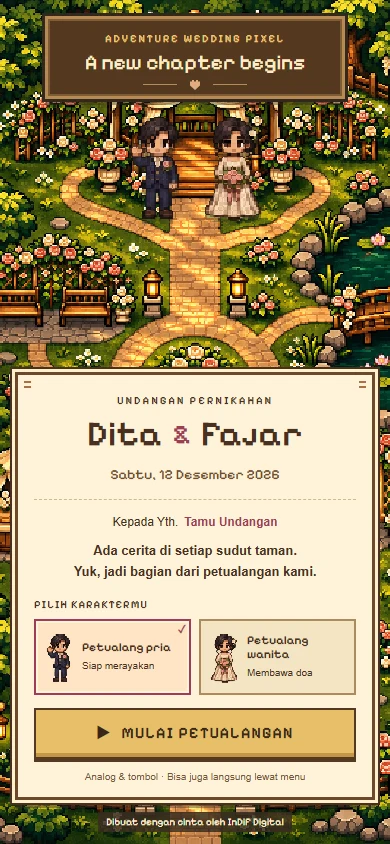
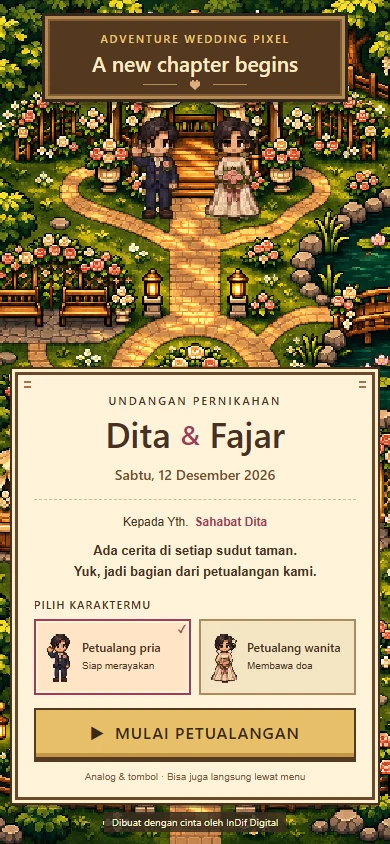
fix: improve invitation readability, gift sign and catalog mockup

diff --git a/components/templates/adventure-wedding-pixel/pixel.module.css b/components/templates/adventure-wedding-pixel/pixel.module.css
@@ -1,17 +1,9 @@
-@font-face {
-  font-family: "Adventure Pixel";
-  src: url("/media/adventure-wedding-pixel/fonts/pixelify-sans.ttf") format("truetype");
-  font-style: normal;
-  font-weight: 400 700;
-  font-display: swap;
-}
-
 .theme {
   --wood: #483021;
   --paper: #fff3d9;
   --rose: #9d3e57;
   --gold: #e6bf67;
-  --pixel: "Adventure Pixel", "Courier New", monospace;
+  --font-ui: "Segoe UI", Arial, Helvetica, sans-serif;
   position: relative;
   min-height: 100svh;
   background: #243d2d;
@@ -40,7 +32,7 @@
 .cover { z-index: 2; isolation: isolate; }
 .cover::before { content: ""; position: absolute; inset: 0; min-height: 760px; background: linear-gradient(180deg, #182d2910, transparent 35%, #182d2930); pointer-events: none; z-index: -1; }
 .coverTop { width: 100%; flex: 1 0 225px; display: flex; flex-direction: column; align-items: center; justify-content: flex-start; }
-.woodenPlaque { position: relative; width: min(300px, 92%); text-align: center; color: #ffedc6; background: #533820; border: 3px solid #b88a52; box-shadow: 0 0 0 3px #33271c, inset 0 0 0 2px #7f5b36, 0 6px 0 #30241e66; padding: 11px 10px 5px; font-family: var(--pixel); }
+.woodenPlaque { position: relative; width: min(300px, 92%); text-align: center; color: #ffedc6; background: #533820; border: 3px solid #b88a52; box-shadow: 0 0 0 3px #33271c, inset 0 0 0 2px #7f5b36, 0 6px 0 #30241e66; padding: 11px 10px 5px; font-family: var(--font-ui); }
 .woodenPlaque > span { display: block; color: #edc879; font-size: 11px; font-weight: 600; letter-spacing: 1.8px; }
 .woodenPlaque > strong { display: block; margin-top: 2px; font-size: 21px; font-weight: 500; line-height: 1.25; }
 .woodenPlaque > div { display: flex; justify-content: center; align-items: center; gap: 12px; margin-top: 3px; }
@@ -52,28 +44,28 @@
 .coverCard { width: 100%; position: relative; background: var(--paper); border: 3px solid #6c492c; outline: 3px solid #fff1cc; box-shadow: 0 0 0 5px #483021, 0 8px 0 #362b2066; padding: 18px 16px 12px; text-align: center; flex-shrink: 0; }
 .coverCard::before, .coverCard::after { content: ""; position: absolute; top: 6px; width: 7px; height: 7px; border-top: 2px solid #aa7045; border-bottom: 2px solid #aa7045; }
 .coverCard::before { left: 6px; }.coverCard::after { right: 6px; }
-.coverEyebrow { font: 600 11px/1.4 var(--pixel); text-transform: uppercase; letter-spacing: 2px; }
-.coverCard h1 { display: flex; justify-content: center; align-items: center; gap: 10px; flex-wrap: wrap; font: 600 clamp(32px, 9vw, 44px)/1.1 var(--pixel); margin: 7px 0 10px; overflow-wrap: anywhere; }
+.coverEyebrow { font: 600 11px/1.4 var(--font-ui); text-transform: uppercase; letter-spacing: 2px; }
+.coverCard h1 { display: flex; justify-content: center; align-items: center; gap: 10px; flex-wrap: wrap; font: 600 clamp(32px, 9vw, 44px)/1.1 var(--font-ui); margin: 7px 0 10px; overflow-wrap: anywhere; }
 .coverCard h1 span { color: var(--rose); font-size: .76em; }
-.coverDate { font: 500 14px/1.5 var(--pixel); color: #704d2c; }
+.coverDate { font: 500 14px/1.5 var(--font-ui); color: #704d2c; }
 .guest { display: flex; flex-wrap: wrap; justify-content: center; gap: 6px; border-top: 1px dashed #ceb88d; margin-top: 14px; padding-top: 13px; font-size: 12px; }
 .guest strong { color: var(--rose); max-width: 100%; overflow-wrap: anywhere; }
 .coverIntro { margin-top: 9px !important; font-size: 13px; font-weight: 600; line-height: 1.6; }
 .characterPicker { display: grid; grid-template-columns: 1fr 1fr; gap: 8px; min-width: 0; margin: 15px 0 13px; padding: 0; border: 0; text-align: left; }
-.characterPicker legend { padding: 0; margin-bottom: 7px; font: 600 11px/1.3 var(--pixel); text-transform: uppercase; letter-spacing: 1px; }
+.characterPicker legend { padding: 0; margin-bottom: 7px; font: 600 11px/1.3 var(--font-ui); text-transform: uppercase; letter-spacing: 1px; }
 .characterPicker button { display: flex; align-items: center; min-width: 0; position: relative; min-height: 76px; padding: 6px 4px; gap: 3px; border: 2px solid #ac8b5d; background: #f4e5c3; color: var(--wood); text-align: left; }
 .characterPicker button[aria-pressed="true"] { border-color: var(--rose); background: #ffe5c4; box-shadow: inset 0 0 0 2px #fff4d9; }
 .characterPicker canvas { flex-shrink: 0; width: 39px; height: 54px; image-rendering: pixelated; }
-.characterPicker strong { display: block; font: 600 12px/1.15 var(--pixel); }
+.characterPicker strong { display: block; font: 600 12px/1.15 var(--font-ui); }
 .characterPicker small { display: block; margin-top: 5px; font-size: 10px; line-height: 1.4; }
 .characterPicker i { position: absolute; right: 3px; top: 3px; font: 700 11px/1 Arial; color: var(--rose); }
-.startButton, .primaryButton, .secondaryButton { display: flex; align-items: center; justify-content: center; gap: 10px; width: 100%; min-height: 48px; padding: 11px 16px; border: 2px solid #543a24; box-shadow: 0 3px 0 #705036; background: var(--gold); color: #382719; font: 600 16px/1.3 var(--pixel) !important; text-decoration: none; text-align: center; }
+.startButton, .primaryButton, .secondaryButton { display: flex; align-items: center; justify-content: center; gap: 10px; width: 100%; min-height: 48px; padding: 11px 16px; border: 2px solid #543a24; box-shadow: 0 3px 0 #705036; background: var(--gold); color: #382719; font: 600 16px/1.3 var(--font-ui) !important; text-decoration: none; text-align: center; }
 .startButton { min-height: 51px; text-transform: uppercase; letter-spacing: 1px; box-shadow: inset 0 -4px #c49744, 0 3px #543a24; }
 .startButton:active, .primaryButton:active, .secondaryButton:active { transform: translateY(2px); box-shadow: 0 1px #705036; }
 .secondaryButton { background: #fff7e6; }
 .coverHint { margin-top: 10px !important; font-size: 10px; color: #765537; }
-.coverBrand { display: block; margin-top: 12px; padding: 3px 8px; color: #fff4d4; text-shadow: 1px 1px #332818; background: #382b20d9; font: 400 10px/1.4 var(--pixel); }
-.hud { display: flex; justify-content: space-between; align-items: center; position: absolute; left: 14px; right: 14px; top: max(14px, env(safe-area-inset-top)); color: #fff0d2; background: #4b3425f5; border: 2px solid #c2975c; outline: 2px solid #30261d; box-shadow: inset 0 0 0 2px #6e4f34, 0 4px 0 #30261d66; min-height: 62px; padding: 7px 10px; font-family: var(--pixel); }
+.coverBrand { display: block; margin-top: 12px; padding: 3px 8px; color: #fff4d4; text-shadow: 1px 1px #332818; background: #382b20d9; font: 400 10px/1.4 var(--font-ui); }
+.hud { display: flex; justify-content: space-between; align-items: center; position: absolute; left: 14px; right: 14px; top: max(14px, env(safe-area-inset-top)); color: #fff0d2; background: #4b3425f5; border: 2px solid #c2975c; outline: 2px solid #30261d; box-shadow: inset 0 0 0 2px #6e4f34, 0 4px 0 #30261d66; min-height: 62px; padding: 7px 10px; font-family: var(--font-ui); }
 .hudIdentity { display: flex; align-items: center; gap: 10px; min-width: 0; }
 .hudIdentity > svg { color: #e69a94; width: 18px; height: 18px; }
 .hudIdentity > div { min-width: 0; }
@@ -82,16 +74,16 @@
 .hudButtons { display: flex; gap: 6px; margin-left: 8px; }
 .hudButtons button { display: flex; flex-direction: column; justify-content: center; align-items: center; gap: 2px; width: 44px; min-height: 44px; border: 0; background: transparent; color: #fff0d2; }
 .hudButtons svg { width: 20px; height: 20px; }
-.hudButtons span { font: 500 9px/1.2 var(--pixel); }
+.hudButtons span { font: 500 9px/1.2 var(--font-ui); }
 .hudButtons button[aria-pressed="true"] { color: #dbebb9; }
-.locationRibbon { position: absolute; top: calc(max(14px, env(safe-area-inset-top)) + 72px); left: 50%; transform: translateX(-50%); white-space: nowrap; font: 500 11px/1.4 var(--pixel); color: #fff4d6; padding: 4px 11px; background: #3b2d22e6; border: 1px solid #d5b882; }
+.locationRibbon { position: absolute; top: calc(max(14px, env(safe-area-inset-top)) + 72px); left: 50%; transform: translateX(-50%); white-space: nowrap; font: 500 11px/1.4 var(--font-ui); color: #fff4d6; padding: 4px 11px; background: #3b2d22e6; border: 1px solid #d5b882; }
 .locationRibbon span { margin: 0 5px; color: #e4bf6c; }
-.loading { position: absolute; top: 42%; left: 24px; right: 24px; padding: 18px; background: var(--paper); border: 3px solid var(--wood); text-align: center; font-family: var(--pixel); }
+.loading { position: absolute; top: 42%; left: 24px; right: 24px; padding: 18px; background: var(--paper); border: 3px solid var(--wood); text-align: center; font-family: var(--font-ui); }
 .loadingScreen { position: absolute; inset: 0; z-index: 5; display: grid; place-items: center; overflow: hidden; background: #201710; }
 .loadingBackdrop { position: absolute; inset: -14px; background: linear-gradient(#251a15a8, #251a15c9), url("/media/adventure-wedding-pixel/garden.webp") center / cover; filter: blur(7px); transform: scale(1.03); }
 .loadingScene { position: relative; display: grid; justify-items: center; gap: 22px; width: 240px; color: #fff2d2; }
 .loadingScene > img { width: 90px; height: 90px; image-rendering: pixelated; }
-.loadingScene > strong { font: 600 16px/1.5 var(--pixel); text-transform: uppercase; letter-spacing: 3px; text-shadow: 2px 2px #241b15; }
+.loadingScene > strong { font: 600 16px/1.5 var(--font-ui); text-transform: uppercase; letter-spacing: 3px; text-shadow: 2px 2px #241b15; }
 .loadingProgress { width: 210px; height: 16px; border: 2px solid #efe1bc; border-radius: 4px; padding: 2px; background: #3a2c23; box-shadow: 0 0 0 2px #3b2a20; }
 .loadingProgress > span { display: block; height: 100%; width: 100%; background: repeating-linear-gradient(90deg, #d7b76e 0 5px, #8e703b 5px 7px); transform-origin: left; animation: prepareMap .7s ease-out both; }
 @keyframes prepareMap { from { transform: scaleX(.08); } to { transform: scaleX(1); } }
@@ -99,7 +91,7 @@
 .welcomeClose { position: absolute; top: 0; right: 0; width: 44px; height: 44px; border: 0; background: transparent; color: #483021; font: 24px/1 Arial !important; }
 .welcomeMain { display: flex; align-items: center; gap: 12px; padding-right: 30px; }
 .welcomeMain > img { flex-shrink: 0; width: 44px; height: 52px; padding: 4px; border: 2px solid #795231; background: #eac786; border-radius: 6px; image-rendering: pixelated; object-fit: contain; }
-.welcomeMain > div > span { display: block; margin-bottom: 6px; color: #9d3e57; font: 700 12px/1.3 var(--pixel); text-transform: uppercase; letter-spacing: 1.5px; }
+.welcomeMain > div > span { display: block; margin-bottom: 6px; color: #9d3e57; font: 700 12px/1.3 var(--font-ui); text-transform: uppercase; letter-spacing: 1.5px; }
 .welcomeMain h2 { font: 700 16px/1.5 Arial, sans-serif; }
 .welcome > p { display: flex; align-items: center; gap: 9px; margin-top: 12px; padding-top: 9px; border-top: 1px dashed #b49b72; font: 600 12px/1.5 Arial, sans-serif; }
 .welcome > p svg { width: 15px; height: 15px; }
@@ -107,7 +99,7 @@
 .notice button { flex-shrink: 0; min-width: 44px; min-height: 44px; background: transparent; border: 0; color: var(--wood); font-size: 24px; }
 .controls { position: absolute; bottom: calc(136px + env(safe-area-inset-bottom)); left: 23px; right: 23px; display: flex; justify-content: space-between; align-items: end; pointer-events: none; user-select: none; -webkit-user-select: none; }
 .joystickGroup { text-align: center; pointer-events: auto; }
-.joystickGroup > span { display: inline-block; margin-bottom: 7px; font: 700 12px/1 var(--pixel); color: #fff8df; text-shadow: -1px -1px #483021, 1px 1px #483021, 2px 2px #483021; }
+.joystickGroup > span { display: inline-block; margin-bottom: 7px; font: 700 12px/1 var(--font-ui); color: #fff8df; text-shadow: -1px -1px #483021, 1px 1px #483021, 2px 2px #483021; }
 .joystick { position: relative; display: grid; place-items: center; width: 115px; height: 115px; border-radius: 50%; background: #ffefd5ed; border: 4px solid #765232; box-shadow: 0 0 0 2px #ffeed0, 0 0 0 4px #3f2e21, inset 0 0 0 3px #d6ba8b, 0 5px 0 #30261d66; touch-action: none; cursor: grab; }
 .joystick:active { cursor: grabbing; }
 .joystick i { position: absolute; color: #88663d; font: normal 10px Arial; }
@@ -115,15 +107,15 @@
 .joystickKnob { display: grid; place-items: center; width: 48px; height: 48px; border-radius: 50%; background: #dbb57c; border: 2px solid #705035; box-shadow: inset 0 0 0 3px #ffefd5, 0 3px 0 #89673f; pointer-events: none; }
 .joystickKnob span { width: 12px; height: 12px; border: 2px solid #6d383d; background: #b9767a; border-radius: 50%; }
 .actionGroup { display: flex; flex-direction: column; align-items: center; gap: 7px; pointer-events: auto; padding-bottom: 6px; }
-.actionButton { width: 70px; height: 70px; padding: 0; border-radius: 50%; background: #fff0cfee; border: 3px solid #785431; outline: 2px solid #fff0cf; box-shadow: inset 0 0 0 3px #d3b17c, 0 5px 0 #483021; color: #785431; font: 500 40px/1 var(--pixel) !important; touch-action: manipulation; }
+.actionButton { width: 70px; height: 70px; padding: 0; border-radius: 50%; background: #fff0cfee; border: 3px solid #785431; outline: 2px solid #fff0cf; box-shadow: inset 0 0 0 3px #d3b17c, 0 5px 0 #483021; color: #785431; font: 500 40px/1 var(--font-ui) !important; touch-action: manipulation; }
 .actionButton[data-ready="true"] { color: #58341c; background: #f5cf73; }
 .actionButton:active { transform: translateY(3px); box-shadow: inset 0 0 0 3px #d3b17c, 0 2px 0 #483021; }
-.actionGroup small { color: #fff3d3; background: #493222e6; padding: 3px 5px; font: 600 9px/1 var(--pixel); }
-.interactionHint { max-width: 140px; padding: 3px 8px; border: 1px solid #c4a477; background: #fff0d7f2; color: #513721; font: 600 12px/1.3 var(--pixel); }
-.wildlifeToast { position: absolute; left: 30px; right: 30px; bottom: calc(250px + env(safe-area-inset-bottom)); width: fit-content; max-width: calc(100% - 60px); margin: 0 auto !important; padding: 9px 14px; background: #fff3d9f5; border: 2px solid #6d5033; border-radius: 6px; box-shadow: 0 3px 0 #32291f44; color: #483021; font: 500 13px/1.5 var(--pixel); text-align: center; pointer-events: none; }
+.actionGroup small { color: #fff3d3; background: #493222e6; padding: 3px 5px; font: 600 9px/1 var(--font-ui); }
+.interactionHint { max-width: 140px; padding: 3px 8px; border: 1px solid #c4a477; background: #fff0d7f2; color: #513721; font: 600 12px/1.3 var(--font-ui); }
+.wildlifeToast { position: absolute; left: 30px; right: 30px; top: calc(max(14px, env(safe-area-inset-top)) + 82px); width: fit-content; max-width: calc(100% - 60px); margin: 0 auto !important; padding: 9px 14px; background: #fff3d9f5; border: 2px solid #6d5033; border-radius: 6px; box-shadow: 0 3px 0 #32291f44; color: #483021; font: 500 13px/1.5 var(--font-ui); text-align: center; pointer-events: none; }
 .quickNav { position: absolute; left: 10px; right: 10px; bottom: max(11px, env(safe-area-inset-bottom)); display: grid; grid-template-columns: 44px minmax(0, 1fr) 44px; align-items: center; gap: 2px; padding: 7px 3px; background: #fff3dcfa; border: 3px solid #63462d; outline: 2px solid #e8c995; box-shadow: 0 4px 0 #34261d88; border-radius: 14px; }
 .navItems { display: flex; min-width: 0; overflow-x: auto; overscroll-behavior: contain; scrollbar-width: thin; scrollbar-color: #b68d55 #efe0bc; scroll-snap-type: x proximity; padding: 2px 0 7px; }
-.navItems > button { display: flex; flex: 0 0 25%; min-width: 0; flex-direction: column; align-items: center; justify-content: start; gap: 6px; min-height: 82px; padding: 5px 1px; position: relative; border: 2px solid transparent; border-radius: 9px; color: #3b2b20; background: transparent; font: 700 10px/1.3 var(--pixel); text-transform: uppercase; scroll-snap-align: start; }
+.navItems > button { display: flex; flex: 0 0 25%; min-width: 0; flex-direction: column; align-items: center; justify-content: start; gap: 6px; min-height: 82px; padding: 5px 1px; position: relative; border: 2px solid transparent; border-radius: 9px; color: #3b2b20; background: transparent; font: 700 11px/1.35 var(--font-ui); scroll-snap-align: start; }
 .navItems > button:hover, .navItems > button:focus-visible { background: #f3ddb0; }
 .navItems > button[data-current="true"] { background: #dfbd8f; border-color: #b78b59; }
 .navItems > button[data-visited="true"] > i { color: #315b32; }
@@ -137,63 +129,63 @@
 .sheetInner { display: flex; flex-direction: column; max-height: calc(100dvh - 30px); }
 .sheetHeader { display: flex; justify-content: space-between; align-items: center; gap: 10px; flex-shrink: 0; padding: 12px 13px; background: #d8b183; border-bottom: 2px solid #b48753; }
 .sheetHeader > span { display: flex; align-items: center; gap: 10px; min-width: 0; }
-.sheetHeader h2 { font: 600 18px/1.15 var(--pixel); }
+.sheetHeader h2 { font: 600 18px/1.15 var(--font-ui); }
 .sheetHeader button { display: grid; place-items: center; width: 44px; min-width: 44px; height: 44px; padding: 0; background: #fff3d9; color: var(--wood); border: 2px solid #65472f; box-shadow: 0 2px 0 #65472f; border-radius: 5px; }
 .sheetHeader button svg { width: 17px; height: 17px; }
 .sheetContent { padding: 22px 18px 28px; overflow-y: auto; overscroll-behavior: contain; scrollbar-width: thin; scrollbar-color: #b88b59 #fff3d9; min-height: 0; scroll-padding: 25px; }
 .sheetContent [hidden] { display: none !important; }
 .sheetContent p { line-height: 1.75; font-size: 14px; overflow-wrap: anywhere; }
-.sheetFooter { flex-shrink: 0; padding: 8px 12px; text-align: center; background: #f0ddba; border-top: 1px solid #d4b789; font: 400 10px/1.5 var(--pixel); }
+.sheetFooter { flex-shrink: 0; padding: 8px 12px; text-align: center; background: #f0ddba; border-top: 1px solid #d4b789; font: 400 10px/1.5 var(--font-ui); }
 .sheetFooter span { padding: 0 5px; color: var(--rose); }
-.panelEyebrow { font: 600 11px/1.5 var(--pixel) !important; letter-spacing: 1px; text-transform: uppercase; color: var(--rose); }
+.panelEyebrow { font: 600 11px/1.5 var(--font-ui) !important; letter-spacing: 1px; text-transform: uppercase; color: var(--rose); }
 .panelIntro { text-align: center; margin: 8px 0 22px !important; }
 .people { display: grid; gap: 20px; margin-top: 25px; }
 .people article { text-align: center; padding: 24px 17px; background: #fffaf0; border: 1px solid #d2b88d; box-shadow: 4px 4px 0 #e3cd9f; }
 .people img { display: block; width: 160px; height: 200px; object-fit: cover; margin: 0 auto 20px; border: 5px solid #fff1cf; outline: 2px solid #bc8c4a; image-rendering: auto; }
-.people h3 { margin: 9px 0 !important; font: 600 26px/1.2 var(--pixel); }
+.people h3 { margin: 9px 0 !important; font: 600 26px/1.2 var(--font-ui); }
 .people p { font-size: 13px; }
 .quote { margin: 28px 0; padding: 28px 16px; border-top: 1px dashed #af8f60; border-bottom: 1px dashed #af8f60; text-align: center; }
 .quote > svg { color: var(--rose); width: 20px; height: 20px; margin-bottom: 12px; }
-.quote p { font-size: 13px; }.quote cite { display: block; margin-top: 13px; font: 500 13px/1.4 var(--pixel); }
-.story > h3 { font: 500 30px/1.1 var(--pixel); margin-bottom: 22px !important; }
+.quote p { font-size: 13px; }.quote cite { display: block; margin-top: 13px; font: 500 13px/1.4 var(--font-ui); }
+.story > h3 { font: 500 30px/1.1 var(--font-ui); margin-bottom: 22px !important; }
 .story article { display: flex; align-items: start; gap: 14px; margin: 23px 0; }
-.story article > span { flex-shrink: 0; padding: 6px; border: 2px solid #a18052; background: #e9d9b0; font: 600 20px/1 var(--pixel); }
+.story article > span { flex-shrink: 0; padding: 6px; border: 2px solid #a18052; background: #e9d9b0; font: 600 20px/1 var(--font-ui); }
 .story small { color: var(--rose); font-weight: 700; font-size: 11px; }
-.story h4 { margin: 3px 0 6px !important; font: 600 20px/1.2 var(--pixel); }
+.story h4 { margin: 3px 0 6px !important; font: 600 20px/1.2 var(--font-ui); }
 .story article p { font-size: 13px; }
-.dateHeading { font: 500 32px/1.15 var(--pixel); margin: 10px 0 22px !important; }
+.dateHeading { font: 500 32px/1.15 var(--font-ui); margin: 10px 0 22px !important; }
 .countdown { display: grid; grid-template-columns: repeat(4, 1fr); margin: 20px 0; gap: 7px; text-align: center; }
 .countdown > div { background: #f0dfb9; border: 1px solid #b39160; padding: 10px 2px; }
-.countdown strong { display: block; font: 500 30px/1.2 var(--pixel); }.countdown span { font: 500 11px/1 var(--pixel); }
+.countdown strong { display: block; font: 500 30px/1.2 var(--font-ui); }.countdown span { font: 500 11px/1 var(--font-ui); }
 .eventNote { padding: 12px 0 18px; }
 .eventCard { position: relative; border-top: 2px solid #9e7748; padding: 25px 0 5px; margin-top: 30px; }
-.eventCard h3 { margin: 10px 0 22px !important; padding-right: 20px; font: 500 27px/1.2 var(--pixel); }
-.eventCard h4 { font: 600 18px/1.4 var(--pixel); margin-bottom: 8px !important; }
+.eventCard h3 { margin: 10px 0 22px !important; padding-right: 20px; font: 500 27px/1.2 var(--font-ui); }
+.eventCard h4 { font: 600 18px/1.4 var(--font-ui); margin-bottom: 8px !important; }
 .eventCard > p:not(.panelEyebrow) { font-size: 13px; }.eventCard a { margin-top: 20px; }
-.eventNumber { position: absolute; top: -14px; right: 0; background: var(--paper); padding-left: 10px; color: #88633b; font: 500 26px/1 var(--pixel); }
+.eventNumber { position: absolute; top: -14px; right: 0; background: var(--paper); padding-left: 10px; color: #88633b; font: 500 26px/1 var(--font-ui); }
 .gallery { display: grid; grid-template-columns: 1fr 1fr; gap: 14px; padding: 3px; }
 .gallery button { position: relative; width: 100%; min-width: 0; padding: 6px 6px 22px; background: #fffaf0; border: 1px solid #af936b; box-shadow: 3px 3px 0 #d9bd8e; }
 .gallery button:nth-child(3n + 1) { transform: rotate(-1deg); }.gallery button:nth-child(3n + 2) { transform: rotate(1deg); }
 .gallery img { width: 100%; height: auto; aspect-ratio: 4/5; object-fit: cover; display: block; }
-.gallery span { position: absolute; right: 7px; bottom: 2px; font: 400 13px/1.4 var(--pixel); color: #795c3d; }
+.gallery span { position: absolute; right: 7px; bottom: 2px; font: 400 13px/1.4 var(--font-ui); color: #795c3d; }
 .lightbox img { display: block; width: 100%; height: auto; max-height: 65dvh; object-fit: contain; }
-.lightbox > div { display: flex; justify-content: space-between; align-items: center; margin-top: 16px; gap: 16px; }.lightbox button { width: 56px; }.lightbox span { font-family: var(--pixel); }
+.lightbox > div { display: flex; justify-content: space-between; align-items: center; margin-top: 16px; gap: 16px; }.lightbox button { width: 56px; }.lightbox span { font-family: var(--font-ui); }
 .form { display: grid; gap: 17px; }
-.form label { display: grid; gap: 7px; font: 600 14px/1.3 var(--pixel); }
+.form label { display: grid; gap: 7px; font: 600 14px/1.3 var(--font-ui); }
 .form input, .form select, .form textarea { width: 100%; min-width: 0; min-height: 47px; padding: 12px; border: 2px solid #ab8b5e; border-radius: 3px; background: #fffdf5; color: #3c3026; font: 400 16px/1.5 Arial, sans-serif; }
 .form textarea { resize: vertical; min-height: 130px; }.form input:disabled { color: #685b49; background: #e6dcc9; }
 .form label small { font: 400 11px/1.5 Arial, sans-serif; color: #725535; }
 .formStatus { padding: 12px; border: 1px solid #8c3f50; background: #fbe4df; color: #75273d; font-size: 13px !important; }
 .formStatus[data-type="success"] { background: #e3edcd; border-color: #628143; color: #2e4e23; }
 .formStatus[data-type="partial"] { background: #fae5ac; color: #604819; border-color: #967640; }
-.wishes { margin-top: 30px; }.wishes > h3 { display: flex; gap: 10px; align-items: center; font: 600 19px/1.3 var(--pixel); padding-bottom: 15px; border-bottom: 2px solid #ac8757; }
+.wishes { margin-top: 30px; }.wishes > h3 { display: flex; gap: 10px; align-items: center; font: 600 19px/1.3 var(--font-ui); padding-bottom: 15px; border-bottom: 2px solid #ac8757; }
 .wishes > h3 span { padding: 2px 8px; color: #fff3dc; background: #63472f; }.wishes > p { margin-top: 16px; }
 .wishes article { padding: 17px 0; border-bottom: 1px dashed #b69972; }.wishes article p { white-space: pre-wrap; margin: 8px 0 !important; font-size: 13px; }.wishes time { font-size: 10px; color: #795c3c; }
-.wishAuthor { display: flex; align-items: center; justify-content: space-between; flex-wrap: wrap; gap: 8px; }.wishAuthor strong { font: 600 16px/1.3 var(--pixel); overflow-wrap: anywhere; }.wishAuthor span { padding: 2px 6px; border: 1px solid #8e7751; background: #e7e2c7; font-size: 10px; }
+.wishAuthor { display: flex; align-items: center; justify-content: space-between; flex-wrap: wrap; gap: 8px; }.wishAuthor strong { font: 600 16px/1.3 var(--font-ui); overflow-wrap: anywhere; }.wishAuthor span { padding: 2px 6px; border: 1px solid #8e7751; background: #e7e2c7; font-size: 10px; }
 .giftPanel { text-align: center; }.giftIllustration { margin: 12px auto 20px; width: 72px; height: 72px; color: var(--rose); }.giftIllustration svg { width: 100%; height: 100%; stroke-width: 1.5; }
-.giftPanel h3 { font: 500 27px/1.2 var(--pixel); margin: 12px 0 !important; }.giftPanel > p { font-size: 13px; }
+.giftPanel h3 { font: 500 27px/1.2 var(--font-ui); margin: 12px 0 !important; }.giftPanel > p { font-size: 13px; }
 .bankCard { text-align: left; margin: 25px 0; padding: 23px 20px; background: #f3e1b6; border: 2px solid #9a7646; box-shadow: 4px 4px 0 #d8bd8a; }
-.bankCard > span { font: 600 11px/1.4 var(--pixel); text-transform: uppercase; }.bankCard h4 { font: 700 25px/1.3 Arial, sans-serif; margin: 5px 0 20px !important; color: #30261d; }
+.bankCard > span { font: 600 11px/1.4 var(--font-ui); text-transform: uppercase; }.bankCard h4 { font: 700 25px/1.3 Arial, sans-serif; margin: 5px 0 20px !important; color: #30261d; }
 .accountDetails { display: grid; gap: 17px; margin: 0 0 23px; padding: 18px 14px; border: 1px solid #b99b6e; background: #fffaf0; color: #30261d; }
 .accountDetails dt { margin-bottom: 5px; font: 400 12px/1.5 Arial, sans-serif; color: #685139; }
 .accountDetails dd { margin: 0; overflow-wrap: anywhere; user-select: all; }
@@ -201,29 +193,29 @@
 .accountOwner { font: 600 17px/1.5 Arial, sans-serif; }
 .bankCard > p[role="status"] { margin: 10px 0 0 !important; min-height: 22px; font-size: 12px; }
 .closing { border-top: 1px dashed #ad8d63; margin-top: 27px !important; padding-top: 20px; }
-.helpTitle { font: 500 32px/1.2 var(--pixel); margin: 10px 0 22px !important; }.helpKeys { display: grid; grid-template-columns: 1fr 1.3fr; align-items: center; gap: 12px; margin: 20px 0; font-size: 12px; }
-.helpKeys kbd { padding: 8px; border: 2px solid #a27c49; box-shadow: 0 3px #b69a6b; font: 600 15px/1.3 var(--pixel); text-align: center; background: #f0dbaf; }.helpMap { display: block; width: 100%; height: auto; max-height: 400px; object-fit: contain; margin: 22px 0; image-rendering: pixelated; }
+.helpTitle { font: 500 32px/1.2 var(--font-ui); margin: 10px 0 22px !important; }.helpKeys { display: grid; grid-template-columns: 1fr 1.3fr; align-items: center; gap: 12px; margin: 20px 0; font-size: 12px; }
+.helpKeys kbd { padding: 8px; border: 2px solid #a27c49; box-shadow: 0 3px #b69a6b; font: 600 15px/1.3 var(--font-ui); text-align: center; background: #f0dbaf; }.helpMap { display: block; width: 100%; height: auto; max-height: 400px; object-fit: contain; margin: 22px 0; image-rendering: pixelated; }
 
 @media (min-width: 720px) {
   .gameShell { border-left: 5px solid #775935; border-right: 5px solid #775935; box-shadow: 0 0 0 2px #16291d, 0 0 60px #0004; }
   .cover { padding-left: 32px; padding-right: 32px; }.coverCard { max-width: 450px; }.coverTop { flex-basis: 240px; }.coverCharacters canvas { width: 95px; height: 131px; }
   .coverCard h1 { font-size: 43px; }.coverIntro { font-size: 14px; }.characterPicker strong { font-size: 14px; }.characterPicker small { font-size: 11px; }
-  .quickNav { bottom: max(22px, env(safe-area-inset-bottom)); }.keyboardHint { position: absolute; bottom: 3px; left: 0; right: 0; display: block; text-align: center; font: 400 10px/1.3 var(--pixel); background: #2c3a24; color: #fff1d2; padding: 3px; }
+  .quickNav { bottom: max(22px, env(safe-area-inset-bottom)); }.keyboardHint { position: absolute; bottom: 3px; left: 0; right: 0; display: block; text-align: center; font: 400 10px/1.3 var(--font-ui); background: #2c3a24; color: #fff1d2; padding: 3px; }
   .sheetContent { padding: 28px 30px; }.people { grid-template-columns: 1fr 1fr; gap: 16px; }.people img { width: 140px; height: 175px; }.people h3 { font-size: 23px; }.sheetHeader { padding: 13px 20px; }.sheetHeader h2 { font-size: 21px; }
 }
 @media (min-width: 1100px) {
   .theme { display: flex; justify-content: center; align-items: center; padding-left: max(290px, calc((100vw - 1100px) / 2)); background: linear-gradient(90deg, #203c2fef, #203c2fb0), url("/media/adventure-wedding-pixel/garden.webp") left center / auto 145% no-repeat; }
-  .gameShell { width: 560px; margin: 0 auto; flex-shrink: 0; }.desktopAtmosphere { display: block; position: absolute; left: max(40px, calc((100vw - 1200px) / 2)); top: 20%; color: #fff0cc; max-width: 290px; }.desktopAtmosphere > span { font: 500 43px/.98 var(--pixel); letter-spacing: -1px; }.desktopAtmosphere em { color: #dfb96d; font-style: normal; }.desktopAtmosphere > p { font: 400 19px/1.5 var(--pixel); margin-top: 30px; color: #e0d4b0; }.desktopAtmosphere > small { display: block; font: 400 11px/1.5 var(--pixel); margin-top: 45px; color: #e0d4b0; }
+  .gameShell { width: 560px; margin: 0 auto; flex-shrink: 0; }.desktopAtmosphere { display: block; position: absolute; left: max(40px, calc((100vw - 1200px) / 2)); top: 20%; color: #fff0cc; max-width: 290px; }.desktopAtmosphere > span { font: 500 43px/.98 var(--font-ui); letter-spacing: -1px; }.desktopAtmosphere em { color: #dfb96d; font-style: normal; }.desktopAtmosphere > p { font: 400 19px/1.5 var(--font-ui); margin-top: 30px; color: #e0d4b0; }.desktopAtmosphere > small { display: block; font: 400 11px/1.5 var(--font-ui); margin-top: 45px; color: #e0d4b0; }
 }
 @media (max-height: 720px) {
   .coverTop { flex-basis: 160px; }.woodenPlaque { padding-top: 8px; }.woodenPlaque strong { font-size: 18px; }.coverCharacters { margin-top: 5px; }.coverCharacters canvas { width: 58px; height: 80px; }.coverCard { padding-top: 13px; }.coverCard h1 { font-size: 32px; margin: 4px 0 6px; }.guest { margin-top: 8px; padding-top: 8px; }.characterPicker { margin: 10px 0; }.coverIntro { font-size: 12px; }.coverBrand { font-size: 9px; }
   .controls { bottom: calc(129px + env(safe-area-inset-bottom)); }.joystick { width: 98px; height: 98px; }.actionButton { width: 62px; height: 62px; }.locationRibbon { display: none; }.notice { top: 91px; }
 }
 @media (max-width: 359px) {
-  .cover { padding-left: 10px; padding-right: 10px; }.coverCard { padding-left: 10px; padding-right: 10px; }.characterPicker button { min-height: 72px; }.characterPicker strong { font-size: 11px; }.characterPicker canvas { width: 33px; height: 46px; }.characterPicker small { font-size: 9px; }.hud { left: 10px; right: 10px; padding: 7px; }.hudIdentity { gap: 6px; }.hudIdentity strong { max-width: 125px; font-size: 16px; }.hudIdentity > svg { width: 14px; height: 14px; }.hudButtons { gap: 0; margin-left: 0; }.controls { left: 18px; right: 18px; }.quickNav { gap: 0; }.navItems > button { font-size: 9px; }.navItems > button > img { width: 31px; height: 31px; }.sheetContent { padding: 18px 13px 24px; }.sheetHeader h2 { font-size: 16px; }
+  .cover { padding-left: 10px; padding-right: 10px; }.coverCard { padding-left: 10px; padding-right: 10px; }.characterPicker button { min-height: 72px; }.characterPicker strong { font-size: 11px; }.characterPicker canvas { width: 33px; height: 46px; }.characterPicker small { font-size: 9px; }.hud { left: 10px; right: 10px; padding: 7px; }.hudIdentity { gap: 6px; }.hudIdentity strong { max-width: 125px; font-size: 16px; }.hudIdentity > svg { width: 14px; height: 14px; }.hudButtons { gap: 0; margin-left: 0; }.controls { left: 18px; right: 18px; }.quickNav { gap: 0; }.navItems > button { flex-basis: 33.333333%; font-size: 11px; }.navItems > button > img { width: 31px; height: 31px; }.sheetContent { padding: 18px 13px 24px; }.sheetHeader h2 { font-size: 16px; }
 }
 @media (orientation: landscape) and (max-height: 500px) {
-  .cover { padding-bottom: 16px; }.coverTop { flex-basis: 175px; }.coverCard { max-width: 420px; }.hud { right: 120px; min-height: 52px; }.locationRibbon, .keyboardHint { display: none; }.quickNav { top: 14px; right: 10px; left: auto; bottom: 14px; width: 96px; display: flex; flex-direction: column; }.navItems { flex: 1; min-height: 0; flex-direction: column; overflow-y: auto; overflow-x: hidden; }.navItems > button { flex: 0 0 68px; min-height: 68px; width: 100%; font-size: 9px; }.navItems > button > img { width: 26px; height: 26px; }.quickNav .navArrow { width: 100%; height: 44px; flex-shrink: 0; }.navArrow > span { transform: rotate(90deg); }.welcome { right: 120px; }.controls { bottom: 17px; right: 120px; }.notice { top: 82px; right: 118px; left: 15px; }.joystick { width: 88px; height: 88px; }.actionButton { width: 60px; height: 60px; }.sheet { max-height: calc(100dvh - 16px); inset: 8px 0; }.sheetInner { max-height: calc(100dvh - 22px); }.sheetHeader { padding: 4px 12px; }.sheetFooter { display: none; }
+  .cover { padding-bottom: 16px; }.coverTop { flex-basis: 175px; }.coverCard { max-width: 420px; }.hud { right: 120px; min-height: 52px; }.locationRibbon, .keyboardHint { display: none; }.quickNav { top: 14px; right: 10px; left: auto; bottom: 14px; width: 96px; display: flex; flex-direction: column; }.navItems { flex: 1; min-height: 0; flex-direction: column; overflow-y: auto; overflow-x: hidden; }.navItems > button { flex: 0 0 68px; min-height: 68px; width: 100%; font-size: 9px; }.navItems > button > img { width: 26px; height: 26px; }.quickNav .navArrow { width: 100%; height: 44px; flex-shrink: 0; }.navArrow > span { transform: rotate(90deg); }.welcome { right: 120px; }.wildlifeToast { right: 120px; max-width: calc(100% - 150px); top: 82px; }.controls { bottom: 17px; right: 120px; }.notice { top: 82px; right: 118px; left: 15px; }.joystick { width: 88px; height: 88px; }.actionButton { width: 60px; height: 60px; }.sheet { max-height: calc(100dvh - 16px); inset: 8px 0; }.sheetInner { max-height: calc(100dvh - 22px); }.sheetHeader { padding: 4px 12px; }.sheetFooter { display: none; }
 }
 @media (prefers-reduced-motion: reduce) {
   .theme *, .theme *::before, .theme *::after { scroll-behavior: auto !important; animation: none !important; transition: none !important; }

diff --git a/components/templates/adventure-wedding-pixel/pixel-world.tsx b/components/templates/adventure-wedding-pixel/pixel-world.tsx
@@ -143,7 +143,7 @@ export function PixelWorld({ active, character, input, position, onAnimalTouch, 
           ctx.beginPath(); ctx.ellipse(location.x, location.y + 23, 32 + phase * 24, 19 + phase * 14, 0, 0, Math.PI * 2); ctx.stroke();
           ctx.restore();
           ctx.fillStyle = "#543622"; ctx.fillRect(location.x - 3, location.y - 2, 6, 16);
-          ctx.font = "600 12px 'Adventure Pixel', monospace";
+          ctx.font = "700 12px Arial, sans-serif";
           const signWidth = Math.max(66, ctx.measureText(location.label.toUpperCase()).width + 21);
           ctx.fillStyle = "#35271f"; ctx.fillRect(location.x - signWidth / 2 - 2, location.y - 24, signWidth + 4, 27);
           ctx.fillStyle = selected ? "#f3ce76" : "#fff0d1"; ctx.fillRect(location.x - signWidth / 2, location.y - 22, signWidth, 23);

diff --git a/components/templates/adventure-wedding-pixel/wildlife.ts b/components/templates/adventure-wedding-pixel/wildlife.ts
@@ -90,7 +90,7 @@ export function drawWildlife(ctx: CanvasRenderingContext2D, seconds: number, pla
     }
     if (selected || reacting) {
       const text = animal.kind === "cat" ? reacting ? "Milo · Purrr…" : "Milo" : animal.kind === "rabbit" ? reacting ? "Mochi · Hop hop!" : "Mochi" : reacting ? "Menari untukmu!" : "Kupu-kupu";
-      ctx.font = "500 11px 'Adventure Pixel', monospace";
+      ctx.font = "600 11px Arial, sans-serif";
       const width = ctx.measureText(text).width + 16;
       const bubbleX = animal.x;
       ctx.fillStyle = "#503a29"; ctx.fillRect(bubbleX - width / 2 - 1, animal.y - 62, width + 2, 23);

diff --git a/lib/catalog-settings.ts b/lib/catalog-settings.ts
@@ -47,7 +47,7 @@ export function getCatalogPriceInfo(price: number, promoPrice: number | null) {
 
 export function getTemplateThumbnail(slug: string, fallbackPath: string | null) {
   const mockups: Record<string, string> = {
-    "adventure-wedding-pixel": "/media/adventure-wedding-pixel/thumbnail.webp",
+    "adventure-wedding-pixel": "/media/mockups/mockup-adventure-wedding-pixel.webp",
     "java-vibes": "/media/mockups/mockup-java-vibes.webp",
     "royal-maroon": "/media/mockups/mockup-royal-maroon-v2.webp",
     "blush-rose": "/media/mockups/mockup-blush-rose.webp",

diff --git a/components/templates/adventure-wedding-pixel/world.ts b/components/templates/adventure-wedding-pixel/world.ts
@@ -29,7 +29,7 @@ export const LOCATIONS: { id: Section; label: string; title: string; x: number; 
   { id: "events", label: "Acara", title: "Hari yang kita nantikan", x: 310, y: 616 },
   { id: "gallery", label: "Galeri", title: "Album perjalanan", x: 590, y: 758 },
   { id: "rsvp", label: "RSVP", title: "Titip doa & kabar hadir", x: 166, y: 760 },
-  { id: "gift", label: "Hadiah", title: "Kotak tanda kasih", x: 360, y: 1040 },
+  { id: "gift", label: "Hadiah", title: "Kotak tanda kasih", x: 440, y: 822 },
 ];
 
 export function nearestLocation(point: Point) {

diff --git a/public/media/adventure-wedding-pixel/README.md b/public/media/adventure-wedding-pixel/README.md
@@ -4,9 +4,10 @@
 - `greeting.webp`: original transparent 6 x 2 greeting atlas, 384 x 128 (39,314 bytes). Top row groom: neutral, three raised-hand wave poses, raised-hand blink, neutral blink. Bottom row bride: four open-eye poses and two blink poses. Used for the cover and gazebo couple.
 - `walking.webp`: transparent 6-column by 4-row walking atlas, 768 x 512 (162,946 bytes). Columns: groom idle/left step/right step, then bride idle/left step/right step. Rows: front/left/right/back. Animation follows actual distance travelled and stops at obstacles.
 - `characters.webp`: original transparent sprite sheet, 2 columns by 4 rows, 512 x 768 (87,030 bytes). Columns: male/female. Rows: front/left/right/back.
-- `thumbnail.webp`: screenshot of this implementation for the template catalog.
+- `thumbnail.webp`: current cover screenshot retained as the invitation thumbnail fallback.
+- `../mockups/mockup-adventure-wedding-pixel.webp`: 1200 x 1080 catalog image showing two phone frames with actual cover and gameplay screenshots. Shared by the public catalog and sales admin through `getTemplateThumbnail`.
 - `nav-couple.webp`, `nav-events.webp`, `nav-gallery.webp`, `nav-rsvp.webp`, `nav-gift.webp`: original imagegen pixel inventory icons, prepared as transparent 80 x 80 WebP files. Used for the scrollable navbar, welcome card and short loading transition.
 - `gasmask-love.mp3`: romantic chiptune loop by Kenny Chow, CC0. Source and license: `MUSIC-LICENSE.md`.
-- `fonts/pixelify-sans.ttf`: Pixelify Sans variable font from https://github.com/google/fonts/tree/main/ofl/pixelifysans, licensed under the SIL Open Font License in `fonts/OFL.txt`.
+- `fonts/pixelify-sans.ttf`: historical Pixelify Sans asset from https://github.com/google/fonts/tree/main/ofl/pixelifysans, with SIL license in `fonts/OFL.txt`. The theme now uses readable system sans-serif text and does not load this font.
 
 The garden and character sheets were generated for this project on 2026-11-07 and revised on 2026-11-08. The cat, rabbit and three butterflies are original code-drawn pixel sprites in `wildlife.ts`. Canopy shadows and falling leaves are code-native effects in `cinematic.ts`. No artwork or screenshots from the reference site are shipped in this folder. Wedding photography and data inherit Sunda Vibes; music is this theme's local licensed loop.

diff --git a/docs/adventure-wedding-pixel.md b/docs/adventure-wedding-pixel.md
@@ -69,3 +69,11 @@ Current animation/contact QA: `scratch/pixel-cinematic-check.cjs`, with separate
 Starting the adventure shows a blurred garden and loading bar for a minimum 700ms, finishing as soon as the map is ready after that minimum. The overlay is capped at 2.5s so navigation remains usable if a network asset fails. A dismissible welcome card then says “Jelajahi undangan pernikahan kami” and “Datangi ikon untuk membuka info”. The previous “Ikuti lingkaran” message is removed. The navbar uses five original imagegen icons, four visible at once with accessible arrows and native scrolling. Landscape uses a vertical strip.
 
 Interactive is available in the public category tabs, admin sidebar, admin category filter, editor options and validated server action. The database constraint accepts the category without broadening sales permissions. The dashboard content routes use a protected route group, leaving the access-required page outside the authentication guard and fixing its production redirect loop.
+
+## Readability and catalog mockup revision
+
+Interface text now uses system sans-serif fonts throughout; map signs and animal labels use Arial. The pixel font is no longer loaded. Very narrow phones show three navigation items at a time so the labels can stay readable; all sections remain reachable with arrows.
+
+The Hadiah sign and its interaction/checkpoint move to (440,822), above the booth's right side. Animal notifications appear below the HUD so they do not cover the sign. Browser checks cover sign visibility against controls, navigation and visible status messages at 320/390 CSS pixels in Chromium and WebKit.
+
+The public and admin sales cards share `public/media/mockups/mockup-adventure-wedding-pixel.webp`: two phone frames containing actual screenshots of the updated cover and game on a forest-green backdrop. The original cover thumbnail remains a fallback. This presentation revision requires no database migration or RSVP/dashboard permission change.
